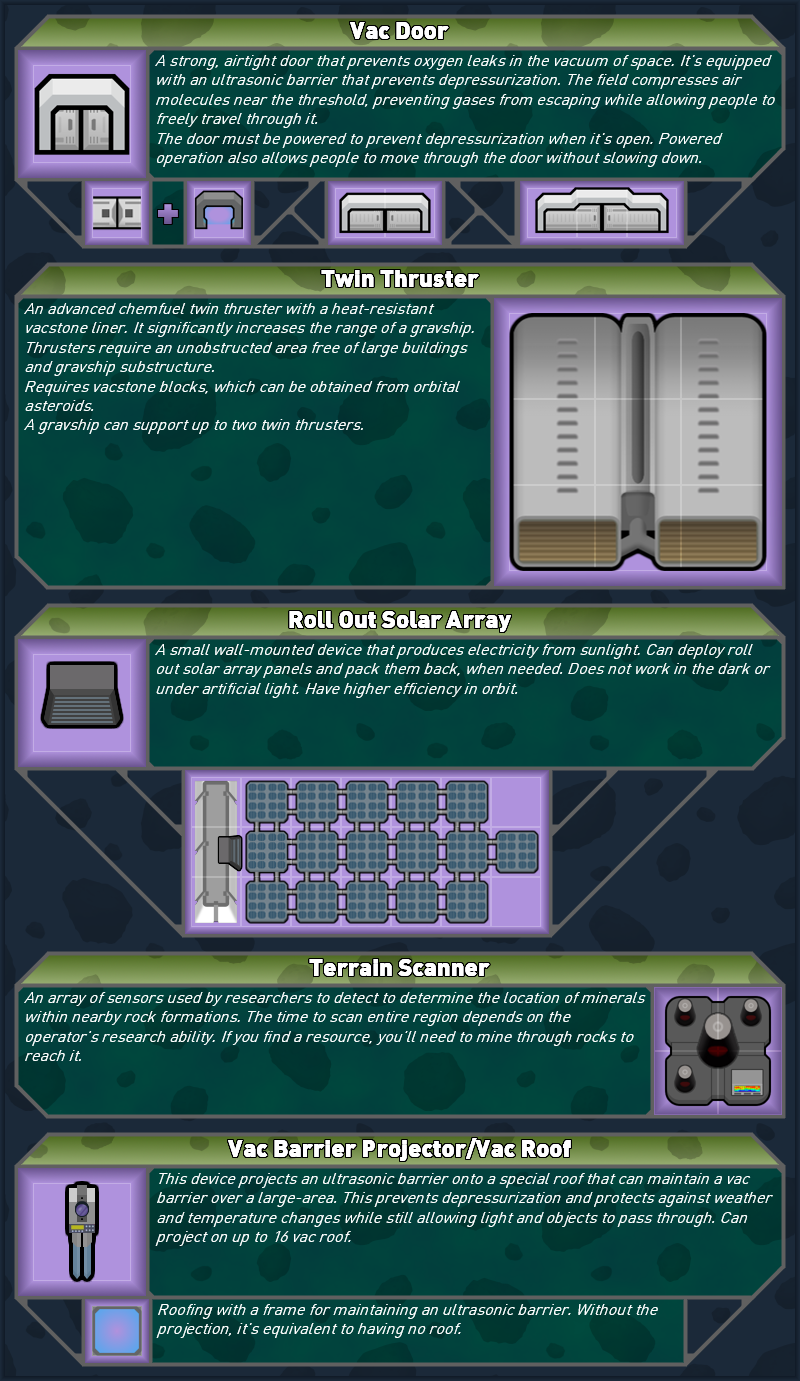
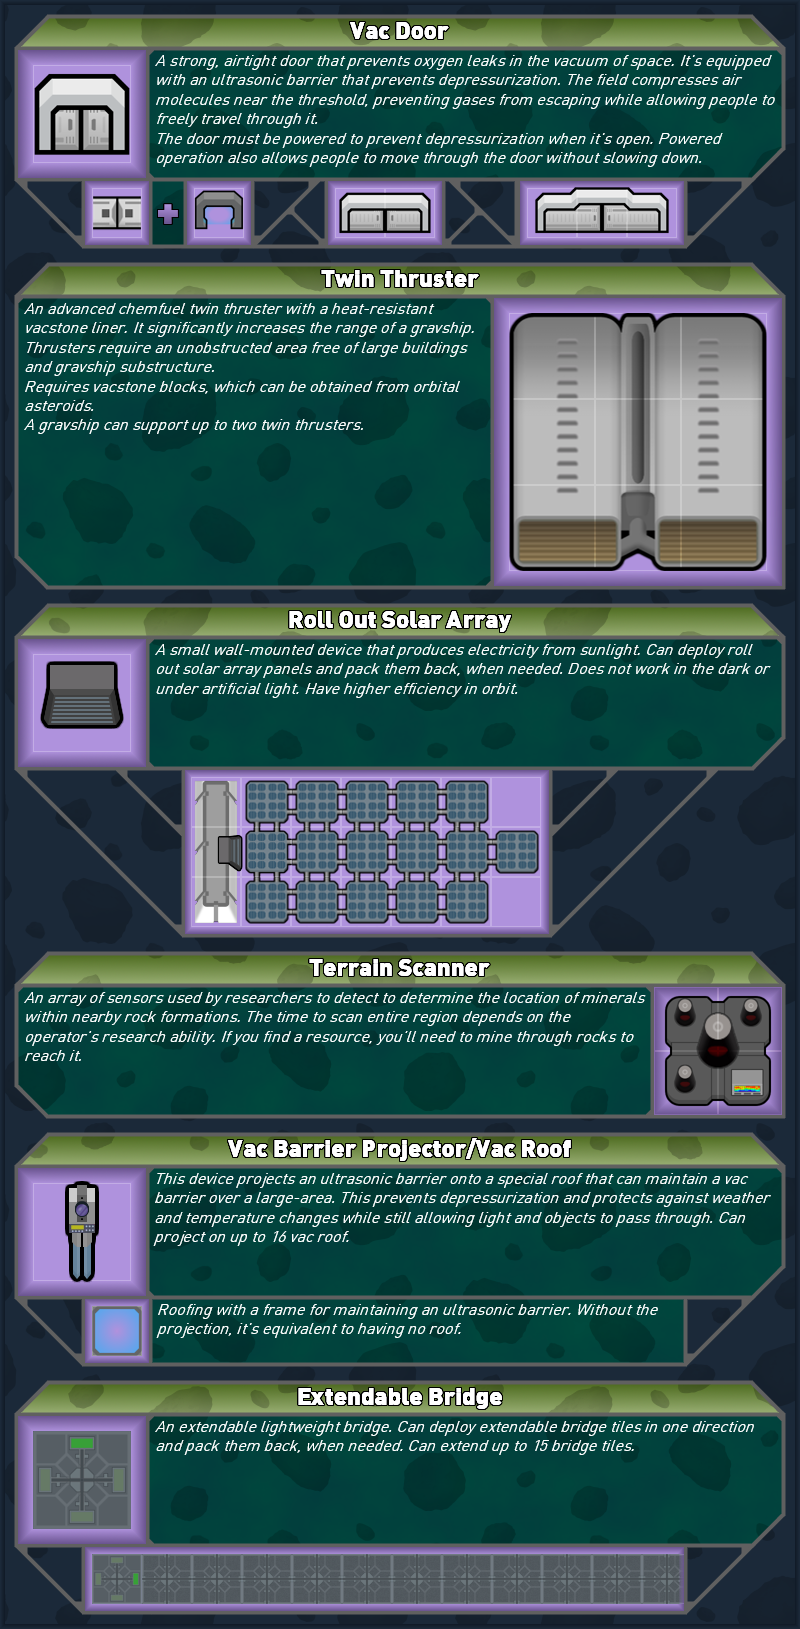
Update release.

diff --git a/README.md b/README.md
@@ -13,7 +13,7 @@ This mod improve space-efficiency of things inside gravship and time consumption
 ### Vac Door
 
 Compact combination of vac barrier functionality and autodoor. Prevents oxygen leaks, when closed or powered. Prevents pen animals and prisoners from roaming around the ship and raiders from entering, like normal door.
-Includes version 1x1, 2x2 and 3x1.
+Includes version 1x1, 2x1 and 3x1.
 
 ### Twin Thruster
 
@@ -34,6 +34,10 @@ Allowing to drag select all over all containers in ruins, instead of searching f
 ### Vac Barrier Roof Projector and Vac Barrier Roof
 
 A device that can power vac barrier on the vac roof, which allow shuttles, drop pods and light through. Powered vac roof will prevent oxygen leaks, weather effects and temperature change. Size and Offset of projection barrier can be adjusted with up to 16 tiles total. When projector not powered vac roof act as if there is no roof.
+
+### Extendable Bridge
+
+No longer need to build bridges after each landing. Can be extended and retracted, when needed. Can deploy tiles over water, emptyness of space and anything normal bridges can. Can be installed anywhere, even under doors or walls for compactness.
 
 ## Links
 
